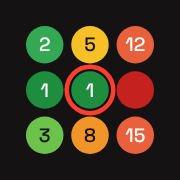
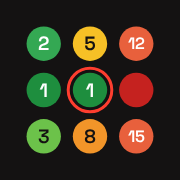
v0.40.1 (stage): icona rifatta da geometria, pallini e anello regolari
Claude-Session: https://claude.ai/code/session_01DCHnG7iKefnJzXE8xmSRnU

diff --git a/index.html b/index.html
@@ -10,9 +10,9 @@
 <meta name="apple-mobile-web-app-title" content="Visibilità">
 <title>Visibilità locale</title>
 <link rel="manifest" href="manifest.webmanifest">
-<link rel="icon" href="icon-192.png?v=5">
-<link rel="apple-touch-icon" href="apple-touch-icon.png?v=5">
-<link rel="stylesheet" href="stile.css?v=0.40.0">
+<link rel="icon" href="icon-192.png?v=6">
+<link rel="apple-touch-icon" href="apple-touch-icon.png?v=6">
+<link rel="stylesheet" href="stile.css?v=0.40.1">
 </head>
 <body>
 <!-- splash di avvio: logotipo AGENTICA negativo (brand book v2: barra fluo, lettere avorio) su nero; non blocca i tocchi -->
@@ -24,7 +24,7 @@
 </header>
 <main id="vista" class="vista"></main>
 <nav class="tab">
-  <div class="tab-brand"><img class="logo" src="icon-192.png?v=5" alt=""><span>Visibilità locale</span></div>
+  <div class="tab-brand"><img class="logo" src="icon-192.png?v=6" alt=""><span>Visibilità locale</span></div>
   <a href="#oggi" data-t="oggi"><svg viewBox="0 0 24 24"><path d="M4 6h16M4 12h16M4 18h10"/></svg>Oggi<span class="tab-n tab-n-neg" id="nOggi"></span></a>
   <a href="#prospect" data-t="prospect"><svg viewBox="0 0 24 24"><circle cx="9" cy="8" r="3.5"/><path d="M2.5 20c.8-3.6 3.4-5.5 6.5-5.5s5.7 1.9 6.5 5.5M16 4.8a3.5 3.5 0 0 1 0 6.4M18.5 14.8c1.6.8 2.7 2.5 3 5.2"/></svg>Prospect<span class="tab-n" id="nProspect"></span></a>
   <a href="#giro" data-t="giro"><svg viewBox="0 0 24 24"><path d="M12 21s-6.5-5.6-6.5-11a6.5 6.5 0 0 1 13 0c0 5.4-6.5 11-6.5 11z"/><circle cx="12" cy="10" r="2.3"/></svg>Giro</a>
@@ -39,7 +39,7 @@
 <div class="destra-vuota" aria-hidden="true"><span class="dv-p">Scegli un prospect dall'elenco: la scheda si apre qui.</span><span class="dv-z">Scegli una zona dall'elenco: il dettaglio si apre qui.</span></div>
 <div id="foglio" class="foglio" hidden></div>
 <div id="toast" class="toast" hidden></div>
-<script src="logica.js?v=0.40.0"></script>
-<script src="app.js?v=0.40.0"></script>
+<script src="logica.js?v=0.40.1"></script>
+<script src="app.js?v=0.40.1"></script>
 </body>
 </html>

diff --git a/sw.js b/sw.js
@@ -1,5 +1,5 @@
 // Cache dell'app per l'uso offline. I dati (api.github.com) non passano mai da qui.
-const CACHE = 'vl-0.40.0';
+const CACHE = 'vl-0.40.1';
 const FILE = ['./', 'index.html', 'stile.css', 'app.js', 'logica.js', 'manifest.webmanifest', 'icon-192.png', 'icon-512.png', 'apple-touch-icon.png',
   'marchio/agentica-simbolo-piccolo-positivo.svg',
   'fonti/dm-mono-latin-400-normal.woff2', 'fonti/dm-mono-latin-500-normal.woff2', 'fonti/instrument-sans-latin-400-normal.woff2', 'fonti/instrument-sans-latin-500-normal.woff2', 'fonti/instrument-sans-latin-600-normal.woff2', 'fonti/space-grotesk-latin-500-normal.woff2', 'fonti/space-grotesk-latin-600-normal.woff2'];

diff --git a/app.js b/app.js
@@ -1,7 +1,7 @@
 /* Visibilità locale: gestione prospect, giro e stampe. Dati in un repository GitHub privato,
    copia locale in IndexedDB per lavorare offline. Nessun dato vive nel repository dell'app. */
 'use strict';
-const VERSIONE = '0.40.0';
+const VERSIONE = '0.40.1';
 /* versione in fondo allo splash di avvio, senza la «v» (che compare solo nel Profilo) */
 /* ambiente: lo decide l'indirizzo dell'app (…/visibilita-locale-stage/ è stage, il resto è produzione) */
 const AMBIENTE = /-stage\//.test(location.pathname) ? 'stage' : 'prod';

diff --git a/strumenti/genera-icone.py b/strumenti/genera-icone.py
@@ -1,0 +1,61 @@
+"""Genera le icone dell'app (pallini 3x3 con anello sul centro) da un SVG geometrico.
+Uso: python3 strumenti/genera-icone.py   (dalla radice del repo; serve Playwright)"""
+import pathlib, base64
+from playwright.sync_api import sync_playwright
+
+RADICE = pathlib.Path(__file__).resolve().parent.parent
+INK, FLUO = '#141212', '#FE3E2F'
+# (colore, numero, colore testo) per riga, da sinistra a destra
+GRIGLIA = [
+    [('#34A853', '2', '#FFFFFF'), ('#F6C026', '5', INK), ('#E8603C', '12', '#FFFFFF')],
+    [('#1E8E3E', '1', '#FFFFFF'), ('#1E8E3E', '1', '#FFFFFF'), ('#C5221F', '', '#FFFFFF')],
+    [('#6CC24A', '3', INK), ('#F29529', '8', INK), ('#E8603C', '15', '#FFFFFF')],
+]
+PASSO, R = 140, 52            # distanza tra i centri e raggio dei pallini (su 512)
+ANELLO_R, ANELLO_S = 66, 9    # anello: raggio della linea mediana e spessore
+
+def svg(scala=1.0, sfondo=None):
+    c = 256
+    el = []
+    if sfondo:
+        el.append(f'<rect width="512" height="512" fill="{sfondo}"/>')
+    el.append(f'<g transform="translate({c} {c}) scale({scala}) translate({-c} {-c})">')
+    for i, riga in enumerate(GRIGLIA):
+        for j, (col, num, tcol) in enumerate(riga):
+            x, y = c + (j - 1) * PASSO, c + (i - 1) * PASSO
+            if i == 1 and j == 1:
+                el.append(f'<circle cx="{x}" cy="{y}" r="{ANELLO_R}" fill="none" stroke="{FLUO}" stroke-width="{ANELLO_S}"/>')
+            el.append(f'<circle cx="{x}" cy="{y}" r="{R}" fill="{col}"/>')
+            if num:
+                fs = 58 if len(num) == 1 else 50
+                el.append(f'<text x="{x}" y="{y}" font-size="{fs}" fill="{tcol}" text-anchor="middle" '
+                          f'dominant-baseline="central" letter-spacing="{-1 if len(num) > 1 else 0}">{num}</text>')
+    el.append('</g>')
+    return '\n'.join(el)
+
+def pagina(contenuto):
+    font = base64.b64encode((RADICE / 'fonti/space-grotesk-latin-600-normal.woff2').read_bytes()).decode()
+    return f'''<!doctype html><html><head><style>
+@font-face{{font-family:SG;src:url(data:font/woff2;base64,{font}) format("woff2");font-weight:600}}
+html,body{{margin:0;background:transparent}} text{{font-family:SG;font-weight:600}}
+</style></head><body><svg id="s" xmlns="http://www.w3.org/2000/svg" viewBox="0 0 512 512" width="512" height="512">{contenuto}</svg></body></html>'''
+
+ICONE = [  # file, lato, scala, sfondo
+    ('icon-512.png', 512, 1.0, None),
+    ('icon-192.png', 192, 1.0, None),
+    ('icon-maskable-512.png', 512, 0.78, INK),   # contenuto nella zona sicura (cerchio 80%)
+    ('icon-maskable-192.png', 192, 0.78, INK),
+    ('apple-touch-icon.png', 180, 0.94, INK),
+]
+
+if __name__ == '__main__':
+    with sync_playwright() as p:
+        b = p.chromium.launch()
+        for nome, lato, scala, sfondo in ICONE:
+            pg = b.new_page(viewport={'width': 512, 'height': 512}, device_scale_factor=lato / 512)
+            pg.set_content(pagina(svg(scala, sfondo)))
+            pg.evaluate('document.fonts.ready')
+            pg.locator('#s').screenshot(path=str(RADICE / nome), omit_background=sfondo is None)
+            pg.close()
+            print('ok', nome, lato)
+        b.close()
